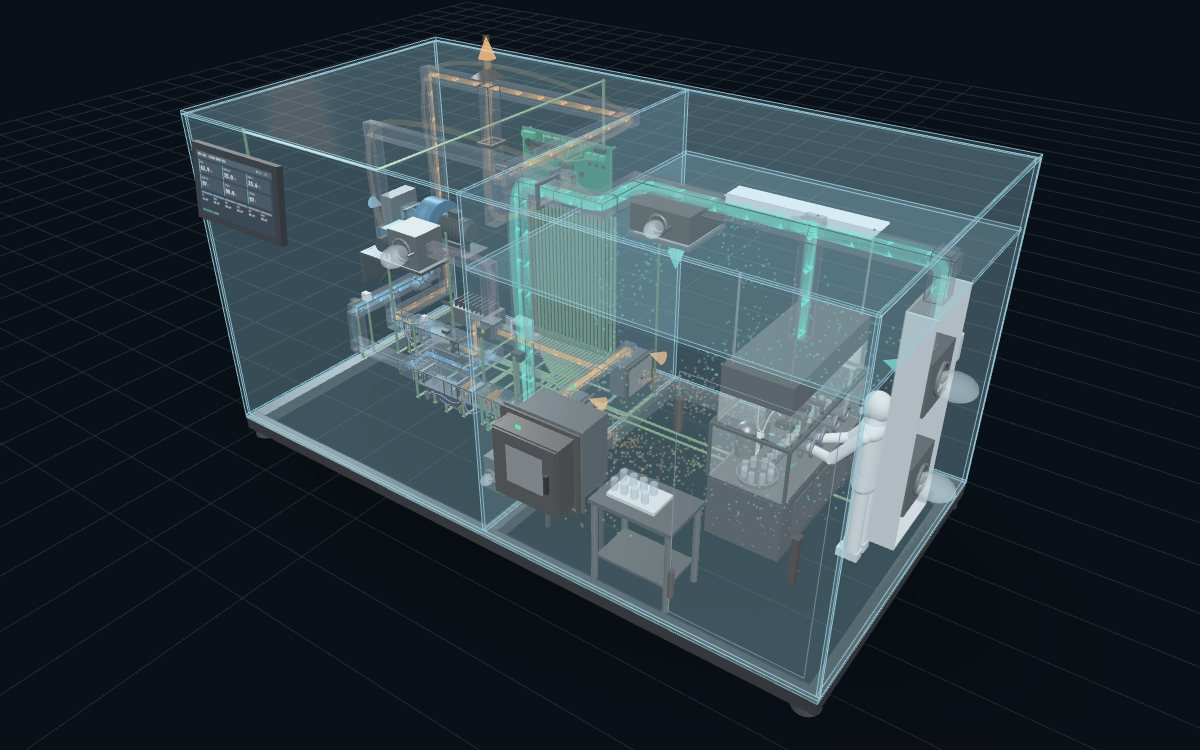
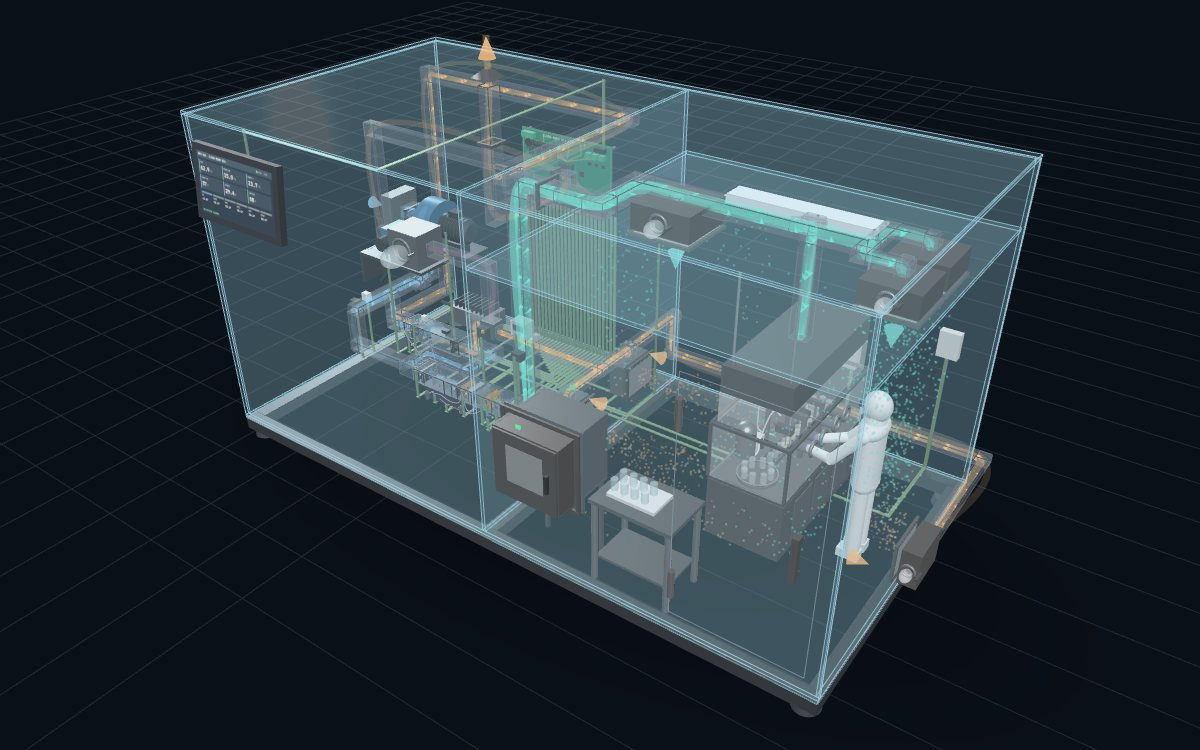
Model D card picture: new layout (ceiling terminals over the operator, exhaust terminal 3 on the right wall)
Claude-Session: https://claude.ai/code/session_01KUTEX1gNmkyE6eVKDyfMeT

diff --git a/index.html b/index.html
@@ -306,7 +306,7 @@
 
       <article class="sim reveal" style="--d:.24s" data-sim="clean-room">
         <div class="sim-media tilt">
-          <img src="assets/img/sim-clean-room-rig.jpg?v=20261014" alt="3D model of the clean-room test rig: AHU and air pump supplying a clean room with a vial filling machine" loading="lazy" width="1200" height="750">
+          <img src="assets/img/sim-clean-room-rig.jpg?v=20261015b" alt="3D model of the clean-room test rig: AHU and air pump supplying a clean room with a vial filling machine" loading="lazy" width="1200" height="750">
           <span class="sim-tag hot">Model D · Test rig</span>
           <div class="sim-play" aria-hidden="true"><svg viewBox="0 0 24 24"><path d="M8 5v14l11-7z"/></svg></div>
         </div>
